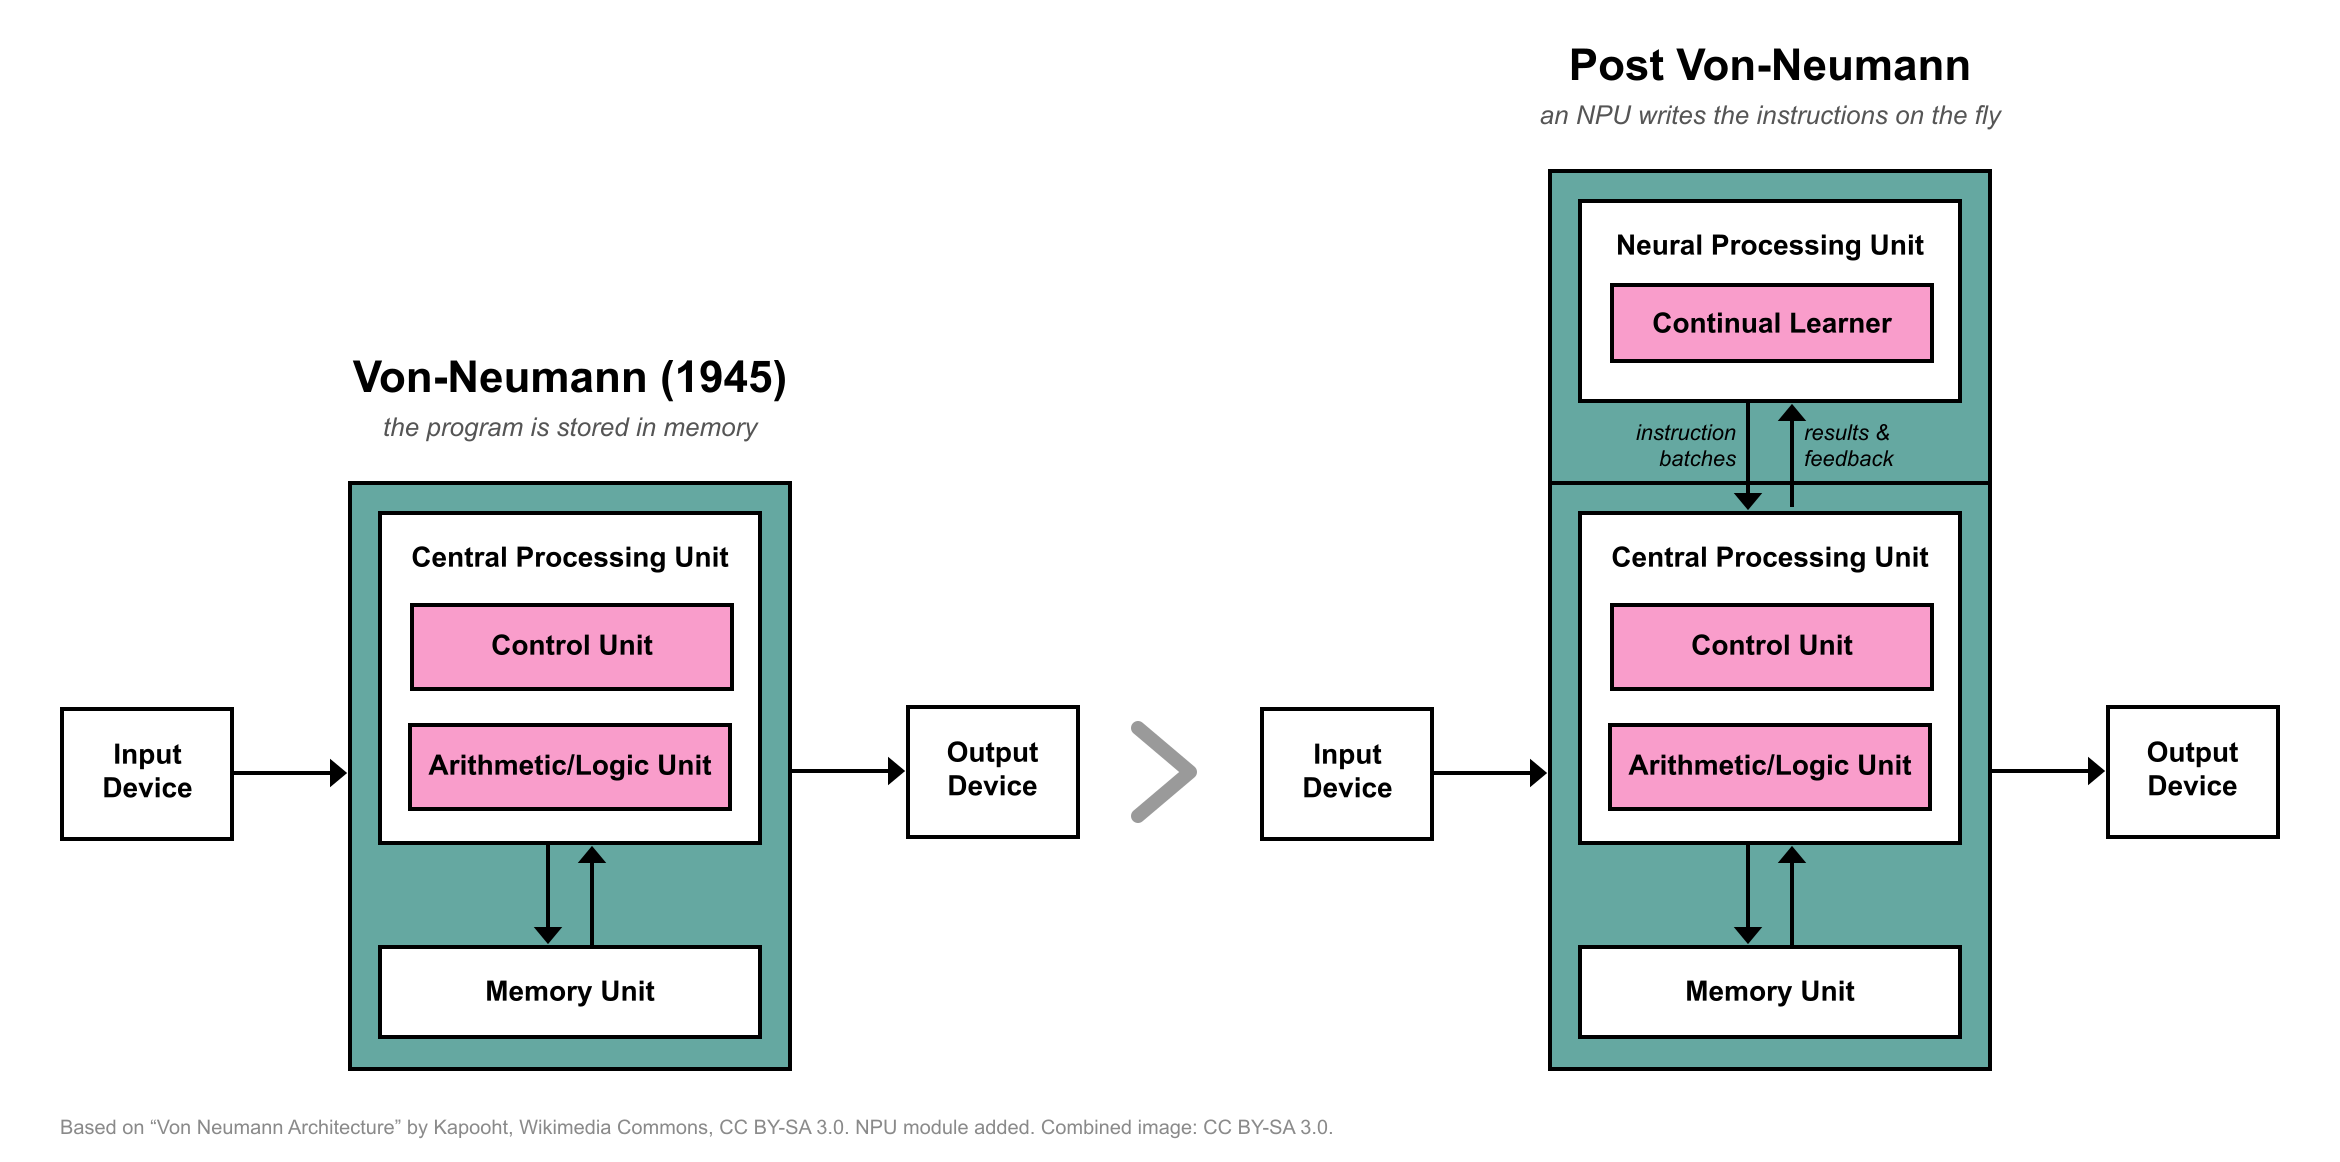
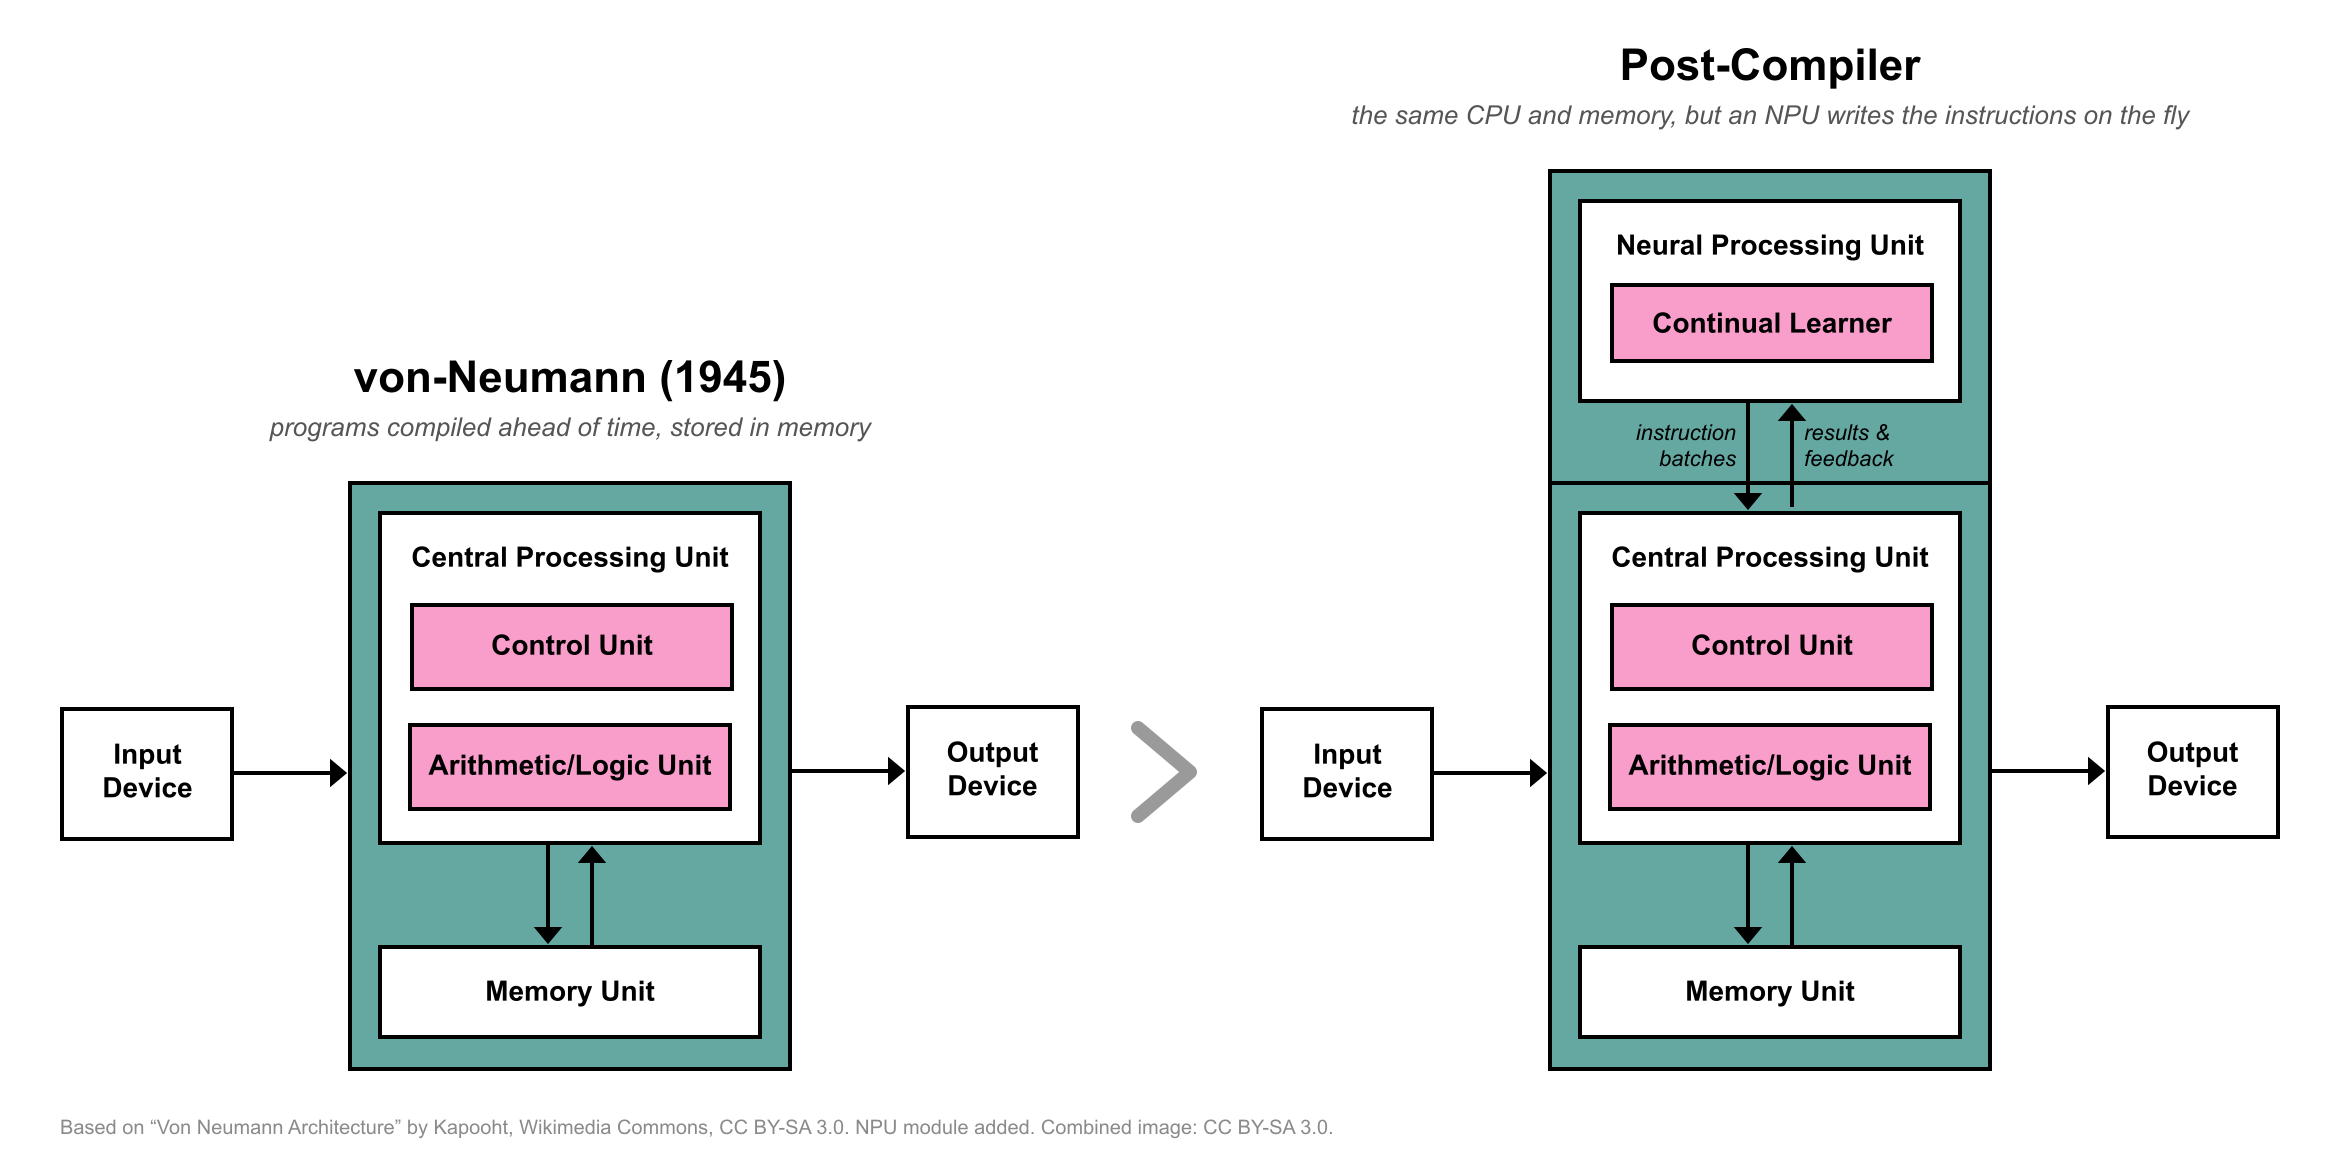
wording

Changed region(s): [[0.5615, 0.031, 0.9359, 0.1239], [0.1248, 0.3098, 0.3744, 0.4028]]

diff --git a/content/post/2026-10-27-There-is-no-point-..-anymore/index.md b/content/post/2026-10-27-There-is-no-point-..-anymore/index.md
@@ -1,6 +1,6 @@
 ---
 title: "There is No Point in Compilers, OS or Static Code Anymore."
-description: If no human will ever read code again, why are we still compiling it? An argument for post-von Neumann computing, where operating systems and static binaries are replaced by living, continually learning models.
+description: If no human will ever read code again, why are we still compiling it? An argument for post-compiler computing, where operating systems and static binaries are replaced by living, continually learning models.
 slug: post-von-neumann-computing
 date: 2026-10-27 00:00:00+0000
 image: cover.png
@@ -24,15 +24,15 @@ The best coding models assisted with the best harnesses are already better at wr
 
 Now, this shift is starting to break all the assumptions that were put into software development over the decades. It started with the so-called SaaS-pocalypse, where almost anyone can vibe-code any service they need in an afternoon, and it leads straight to a much more fundamental question: **why do models still have to output human-readable code if no human is ever going to read it anyway?**
 
-## Post von-Neumann
+## The Post-Compiler Era
 
-The typical von-Neumann architecture introduced in 1945 was built on the assumption that code executed on the processing unit is a mostly static, pre-built binary stored in memory. It had to contain a massive amount of fallback cases for different types of hardware and architectures to be supported. For more than eighty years, this assumption held, largely because it was the only way to keep the ever-growing complexity of computing systems manageable by a limited human brain. We built compilers, runtime environments, and operating systems because humans could never hope to write raw, optimal machine code on the fly.
+Ever since the stored-program computer was described in 1945, the code executed on the processing unit has been a mostly static, pre-built binary stored in memory. It had to contain a massive amount of fallback cases for different types of hardware and architectures to be supported. For more than eighty years, this assumption held, largely because it was the only way to keep the ever-growing complexity of computing systems manageable by a limited human brain. We built compilers, runtime environments, and operating systems because humans could never hope to write raw, optimal machine code on the fly.
 
 I would like to argue that the code of tomorrow is never stored in memory. Some pieces of it, templates and reusable structural elements, will endure, but not all of it. 
 
 Code, if you can even call it that anymore, is going to be written and executed on the fly by an AI system that exists on a dedicated neural processing unit, using the CPU and GPU as a pure processing power warehouse to calculate what is needed and produce an output for the end user. It will generate pure instructions in the native binary format, sent to the hardware in just enough quantity to make it busy enough to think about the current task and prepare the next batch of instructions, exactly in a form the processing units expect them.
 
-![The von-Neumann architecture next to the post von-Neumann one](Von_Neumann_vs_Post_Von_Neumann.png)
+![The von-Neumann architecture next to the post-compiler one](Von_Neumann_vs_Post_Von_Neumann.png)
 
 
 ## Not in the Cloud
